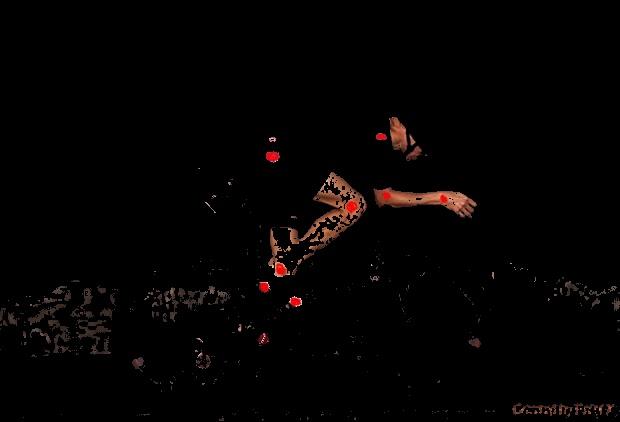
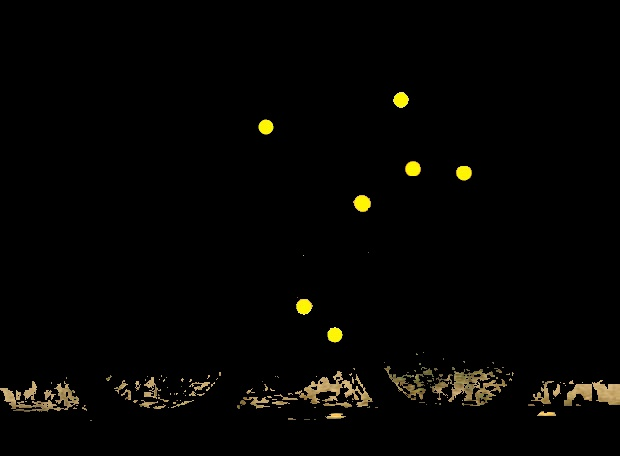
Use propper hue

diff --git a/test-data/image_test.py b/test-data/image_test.py
@@ -1,26 +1,39 @@
 import cv2 as cv
 import numpy as np
+import sys
 
-image = cv.imread("tri-bike-test-01.jpg")
+red = sys.argv[1]
+green = sys.argv[2]
+blue = sys.argv[3]
+color_span = int(sys.argv[4])
+image_to_load = sys.argv[5]
+
+color = np.uint8([[[blue, green, red]]])
+hsv_color = cv.cvtColor(color, cv.COLOR_BGR2HSV)
+hue = hsv_color[0][0][0]
+print ("Hue: " + str(hue) + ", Color span: " + str(color_span))
+
+if hue >= color_span:
+    lower_hue = hue - color_span
+    upper_hue = hue + color_span
+    print ("Lower Hue: " + str(lower_hue) + ", Upper Hue: " + str(upper_hue))
+else:
+    lower_hue = hue
+    upper_hue = hue
+    print ("Lower Hue: " + str(lower_hue) + ", Upper Hue: " + str(upper_hue))
+
+image = cv.imread(image_to_load)
 if image is None:
     print ("No image readed")
     exit()
-hsv = cv.cvtColor(image, cv.COLOR_BGR2HSV)
 
+image_hsv = cv.cvtColor(image, cv.COLOR_BGR2HSV)
+lower_color = np.array([lower_hue, 100, 100], dtype=np.uint8)
+upper_color = np.array([upper_hue, 255, 255], dtype=np.uint8)
+mask = cv.inRange(image_hsv, lower_color, upper_color)
 
-# lower mask (0-10)
-lower_red = np.array([0,50,50])
-upper_red = np.array([10,255,255])
-mask0 = cv.inRange(hsv, lower_red, upper_red)
-
-# upper mask (170-180)
-lower_red = np.array([170,50,50])
-upper_red = np.array([180,255,255])
-mask1 = cv.inRange(hsv, lower_red, upper_red)
-
-# join my masks
-mask = mask0+mask1
-
-res = cv.bitwise_and(image, image, mask, mask)
+res = cv.bitwise_and(image, image, mask=mask)
 
 cv.imwrite("out.jpg", res)
+cv.imwrite("hsv.jpg", image_hsv)
+cv.imwrite("mask.jpg", mask)
